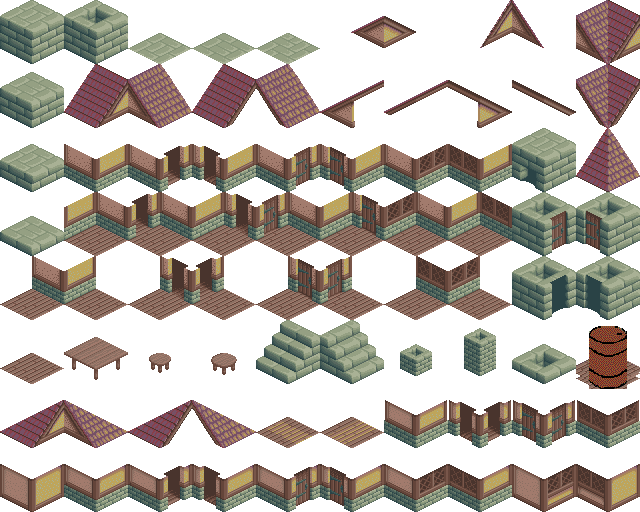
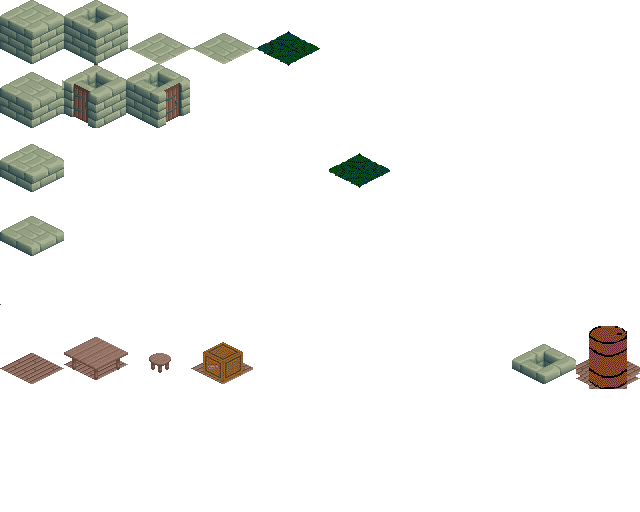
Updated Iso Tilesheet, added getName method in sprite class

diff --git a/src/Renderer/Renderer.java b/src/Renderer/Renderer.java
@@ -19,10 +19,10 @@ public class Renderer {
 	private BufferedImage empty= null;
 	private BufferedImage wall= getIso(0,0);
 	private BufferedImage floor = getIso(0,64*5);
-	private BufferedImage Barrel = getIso(64*3,64*5);
-	private BufferedImage rug = getIso(64*9,64*5);
-	private BufferedImage door = getIso(64*9,65*3);
-	
+	private BufferedImage Barrel = getIso(64*9,64*5);
+	private BufferedImage rug = getIso(64*4,64*0);
+	private BufferedImage door = getIso(64*1,64*1);
+	private BufferedImage crate = getIso(64*3,64*5);
 			
 			
 	public void drawLevel(Graphics g, Room r) {
@@ -95,7 +95,8 @@ ts[29][29].setBackGroundImage(rug);
 					case 1: case 2: case 3:  			temp = new Tile(wall);			break;
 					case 4:							 	temp = new Tile(floor);			break;
 					case 5: 						 	temp = new Tile(Barrel);		break;
-					case 6: case 7: case 8: 		 	temp = new Tile(rug);			break;
+					case 6:								temp = new Tile(rug);			break;
+					case 7: case 8:						temp = new Tile(crate);			break;
 					case 9: case 10: case 11: 
 					case 12: case 13: case 14:			temp = new Tile(door);			break;					
 				}
@@ -128,13 +129,13 @@ ts[29][29].setBackGroundImage(rug);
 	}
 
 	public void drawSprite(Graphics2D g2, Sprite testSprite) {
-		g2.drawImage(getSpriteIso(testSprite.getStep() %10, testSprite.getFacing()),400, 300,null);
+		g2.drawImage(getSpriteIso(testSprite.getStep() %10, testSprite.getFacing(), testSprite.getName()),400, 300,null);
 		
 	}
-	public BufferedImage getSpriteIso(int x, String direction) {
+	public BufferedImage getSpriteIso(int x, String direction,String currentSpriteName) {
 		BufferedImage spriteSheet = null;
 		try {
-			spriteSheet = ImageIO.read(new File("sprite/sprite"+direction+".png"));
+			spriteSheet = ImageIO.read(new File("sprite/"+currentSpriteName+direction+".png"));
 		} catch (IOException e) {
 			System.out.println(e.toString());
 		}

diff --git a/src/Renderer/Sprite.java b/src/Renderer/Sprite.java
@@ -60,5 +60,8 @@ public class Sprite{
 	public void setStep(int step) {
 		this.step = step;
 	}
+	public String getName() {
+		return name;
+	}
 	
 }
